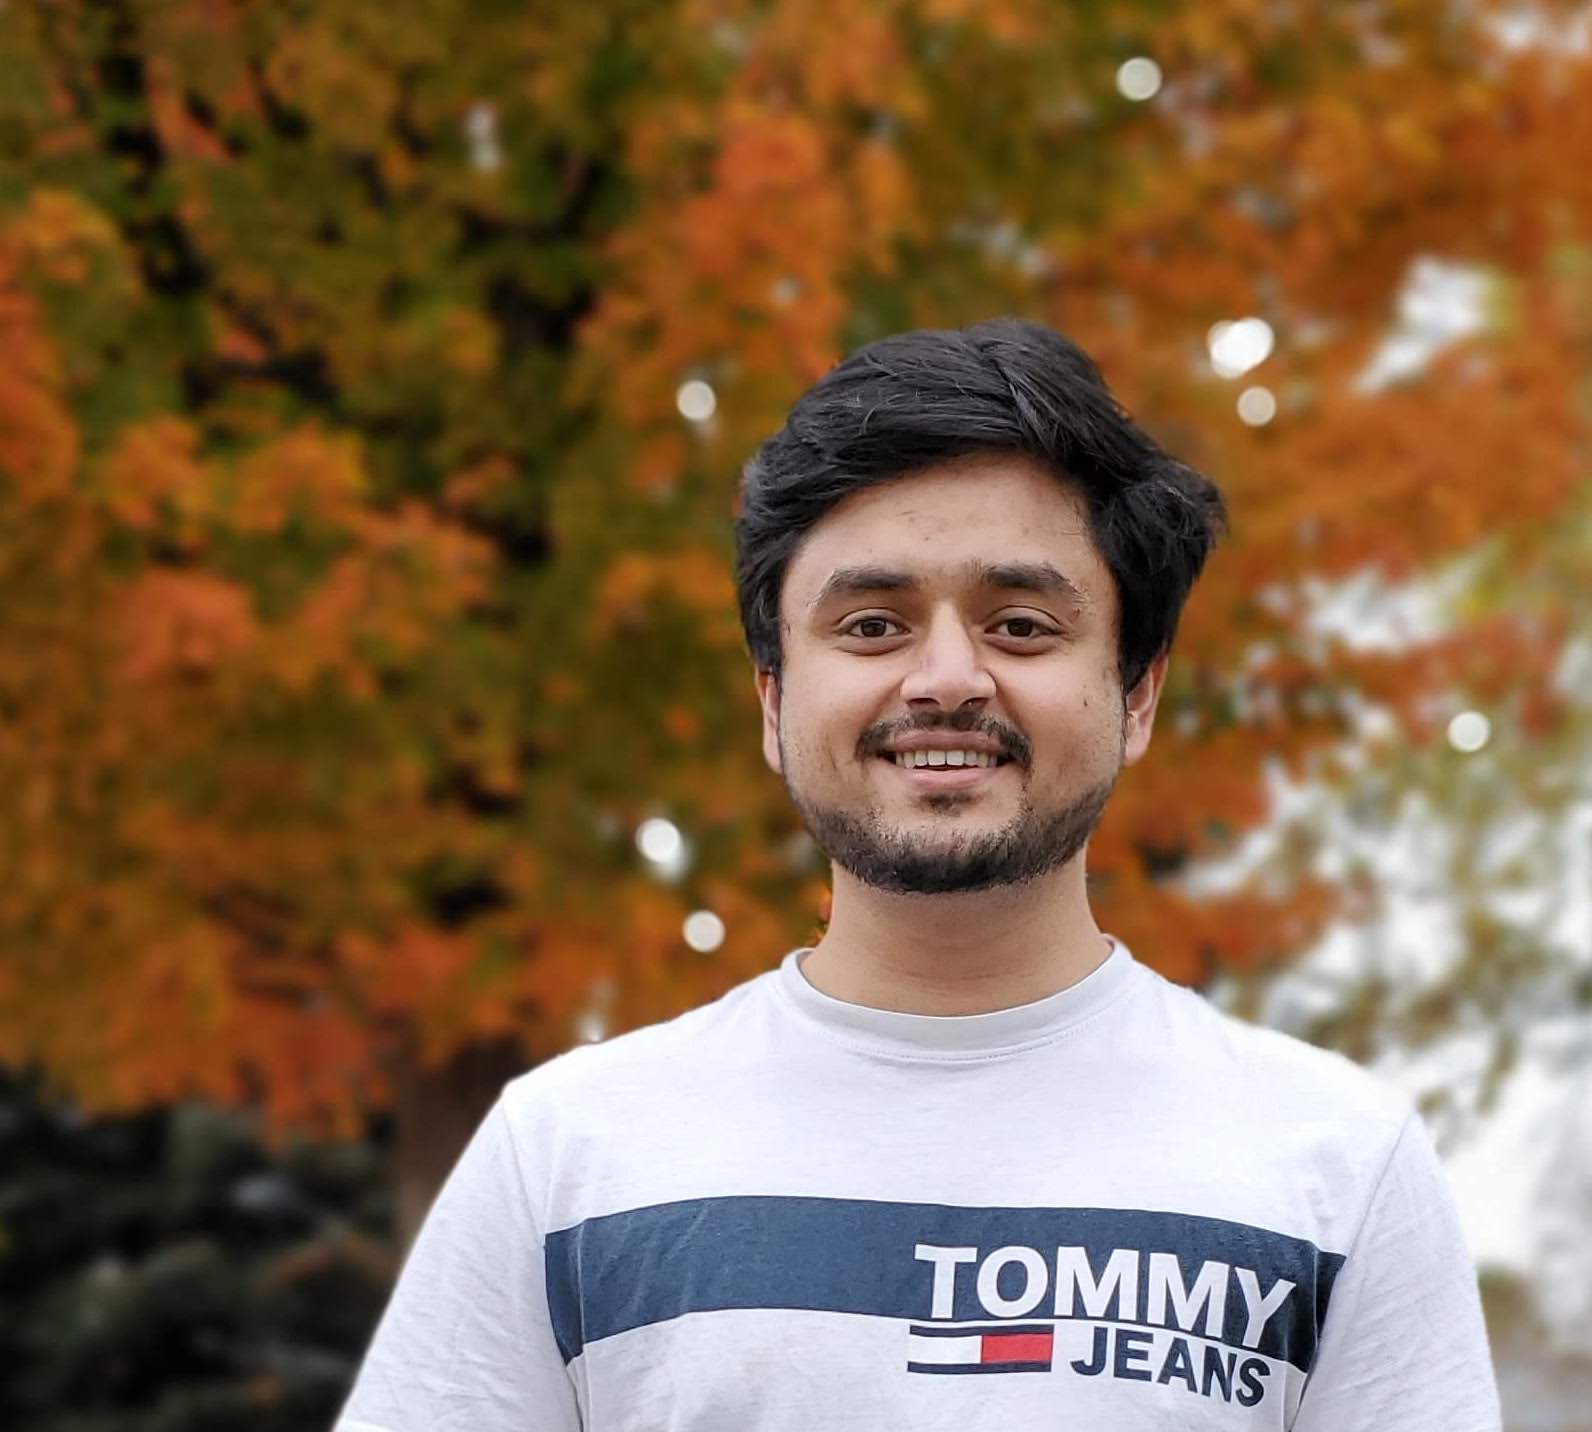
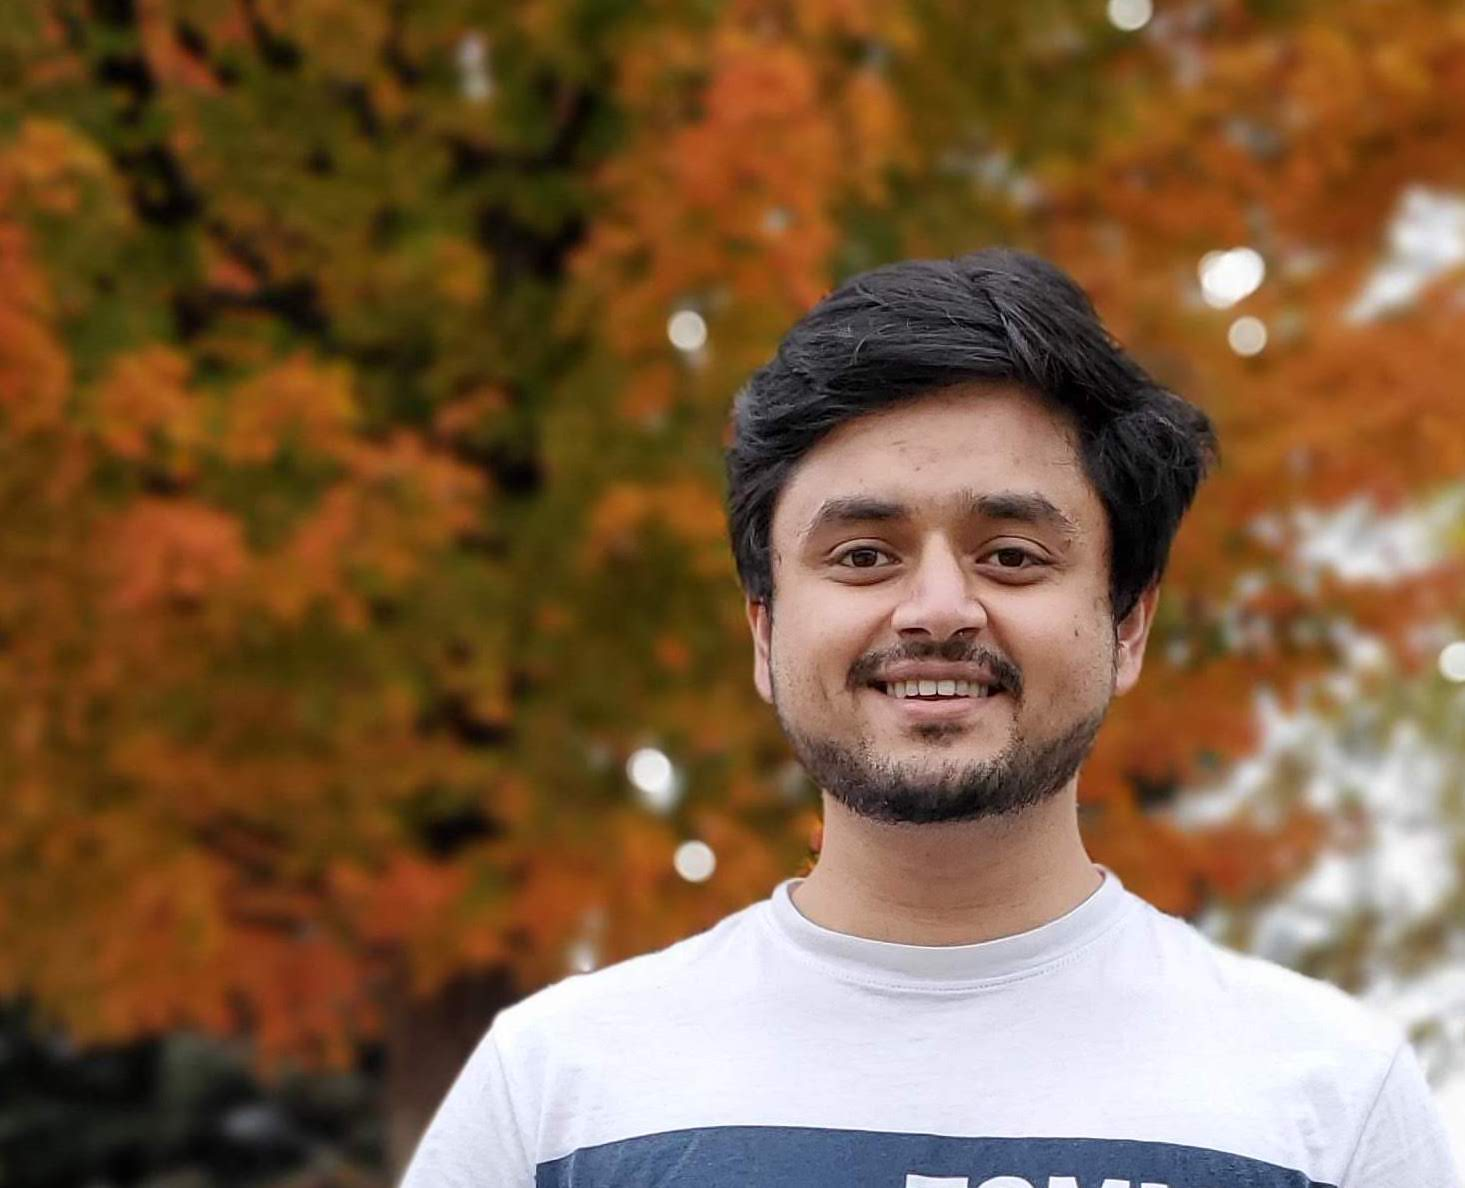
new additions

diff --git a/index.html b/index.html
@@ -64,13 +64,14 @@
 										</p>	
 										<ul class="actions">
 											<li><a href="publications.html" class="button big">Publications</a></li>
-											<li><a href="work.html" class="button big">Work Exp.</a>
+											<li><a href="work.html" class="button big">Work Exp.</a></li>
 											<li><a href="papers/cv.pdf" target="blank" class="button big">CV</a></li>
+										</ul>
 									</div>
-									<span class="image object" style="width:34%">
-										<img src="images/nurendra.jpg" alt="Profile Image" style="padding-top:20%;padding-bottom:10%;padding-right:20%;"/>
-																		
-									</span>
+										<span class="image object">
+											<img src="images/nurendra.jpg" alt="Profile Image">	
+										</span>
+									
 								</section>
 						</div>
 					</div>
